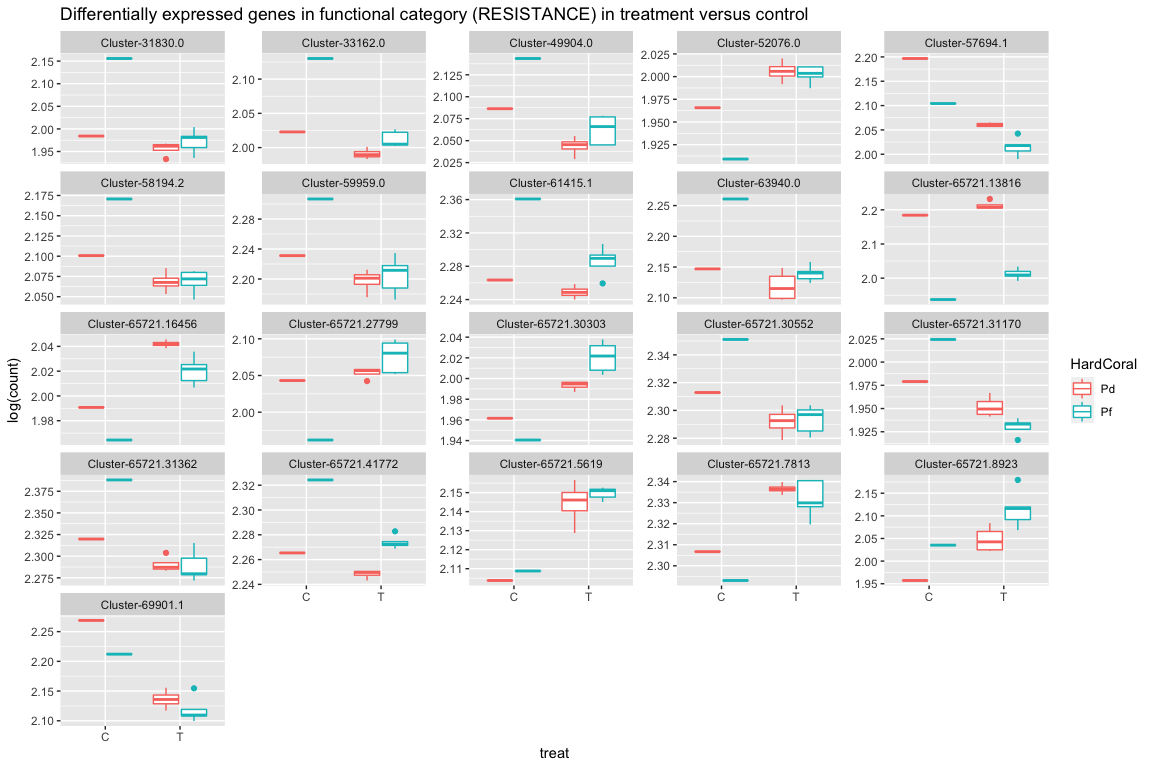
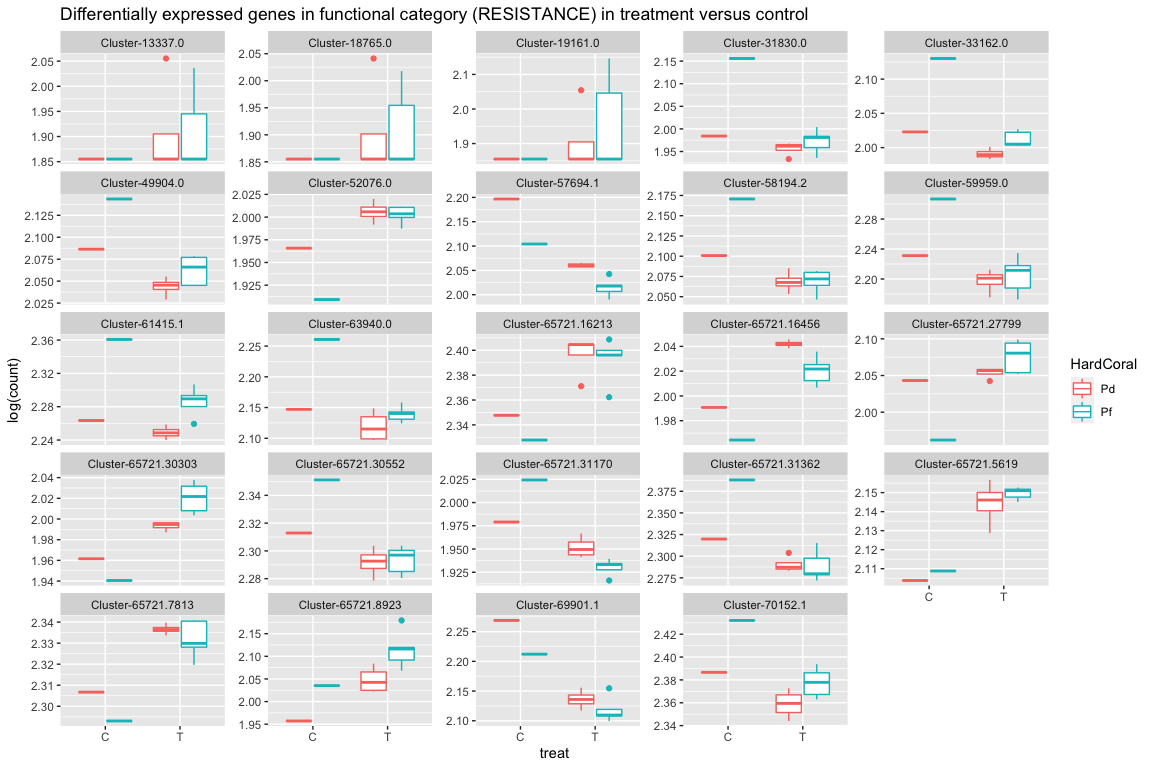
Minor update to gene function analysis

diff --git a/05_gene_function.md b/05_gene_function.md
@@ -4,7 +4,7 @@ Natalia Andrade and Ira Cooke
 07/08/2017
 
 Load differentially expressed genes between HardCoral treatments obtain
-data from analysis with DESeq2 (03\_deseq).
+data from analysis with DESeq2 (02\_deseq).
 
 Annotating the 174 DEG\_CvsT with transcriptome annotation and manual
 annotation
@@ -25,3 +25,6 @@ colony Pd
     ## [21] "Ld"
 
 ![](05_gene_function_files/figure-gfm/unnamed-chunk-3-1.png)<!-- -->
+
+Manual Categories plots
+![](05_gene_function_files/figure-gfm/gene%20function-1.png)<!-- -->![](05_gene_function_files/figure-gfm/gene%20function-2.png)<!-- -->![](05_gene_function_files/figure-gfm/gene%20function-3.png)<!-- -->![](05_gene_function_files/figure-gfm/gene%20function-4.png)<!-- -->
